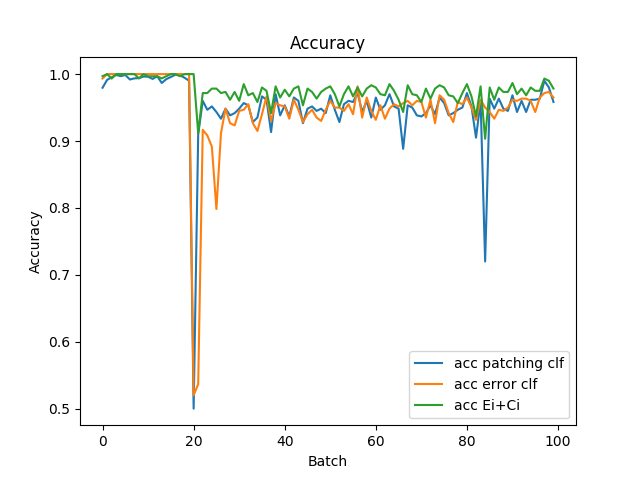
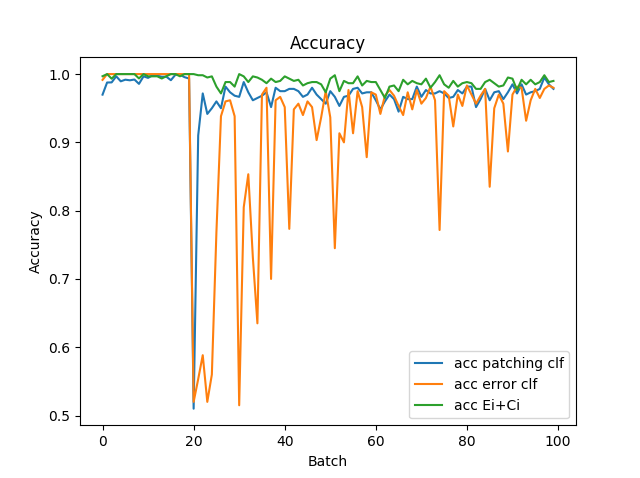
resnet results

diff --git a/mnist/mnist_drift_classifier_2.py b/mnist/mnist_drift_classifier_2.py
@@ -111,9 +111,23 @@ def make_resnet_model(Ei, n):
     print("resnet used")
     model_resnet = make_resnet()
     model_resnet.load_weights("model_base_resnet_weights.h5")
+    
+    count_add = 0
+    for l in model_resnet.layers:
+        if l.name.startswith("add"):
+            count_add += 1
+        if count_add < n and not l.name.startswith("input_"):
+            l.trainable = False
+            print("Frozen layer {0}".format(l.name))
+        else:
+            print("Free layer {0}".format(l.name))
+                
+    
     input = Input(shape=(28,28,1))
     out = model_resnet(input)
     out = Flatten()(out)
+    out = Dense(units=128)(out)
+    out = Activation(relu)(out)
     if Ei:
         out = Dense(units=1, kernel_regularizer=regularizers.l2(0.01))(out)
         out = Activation(sigmoid)(out)
@@ -160,10 +174,12 @@ sizeOneBatch = totalDataSize // nbBatches
 # build models using weights from base
 model = load_model("model_base_resnet.h5") if resnet else load_model('model_base.h5')
 
-model_Ci = make_resnet_model(False, 0) if resnet else make_model(False)
+freeze_add_block = 0 
+model_Ci = make_resnet_model(False, freeze_add_block) if resnet else make_model(False)
 #model_Ci.load_weights("model_base_weights.h5", by_name=True)
-model_Ei = make_resnet_model(True, 0) if resnet else make_model(True)
+model_Ei = make_resnet_model(True, freeze_add_block) if resnet else make_model(True)
 #model_Ei.load_weights("model_base_weights.h5", by_name=True)
+
 
 lossArray_E = []
 accArray_E = []
@@ -270,7 +286,7 @@ for i in range(nbBaseBatches, nbBatches):
 
 npFileName = "mnist_drift_{0}_from_scratch_64.npz".format(drift_type)
 if resnet:
-    npFileName = "mnist_drift_{0}_resnet.npz".format(drift_type)
+    npFileName = "mnist_drift_{0}_resnet_{1}.npz".format(drift_type, freeze_add_block)
 np.savez(npFileName, acc=accArray, acc_E=accArray_E, 
                     loss=lossArray, loss_E=lossArray_E,
                     accChained=accChainedArray,
@@ -285,4 +301,11 @@ plt.ylabel("Accuracy")
 plt.xlabel("Batch")
 plt.legend()
 plt.show()
+# pic_file_name = ""
+# if resnet:
+#     pic_file_name = "accuracy_{0}_resnet_{1}.png".format(drift_type, freeze_add_block)
+# else:
+#     pic_file_name = "accuracy_{0}_fs.png".format(drift_type)
+
+# plt.savefig(pic_file_name)
 
